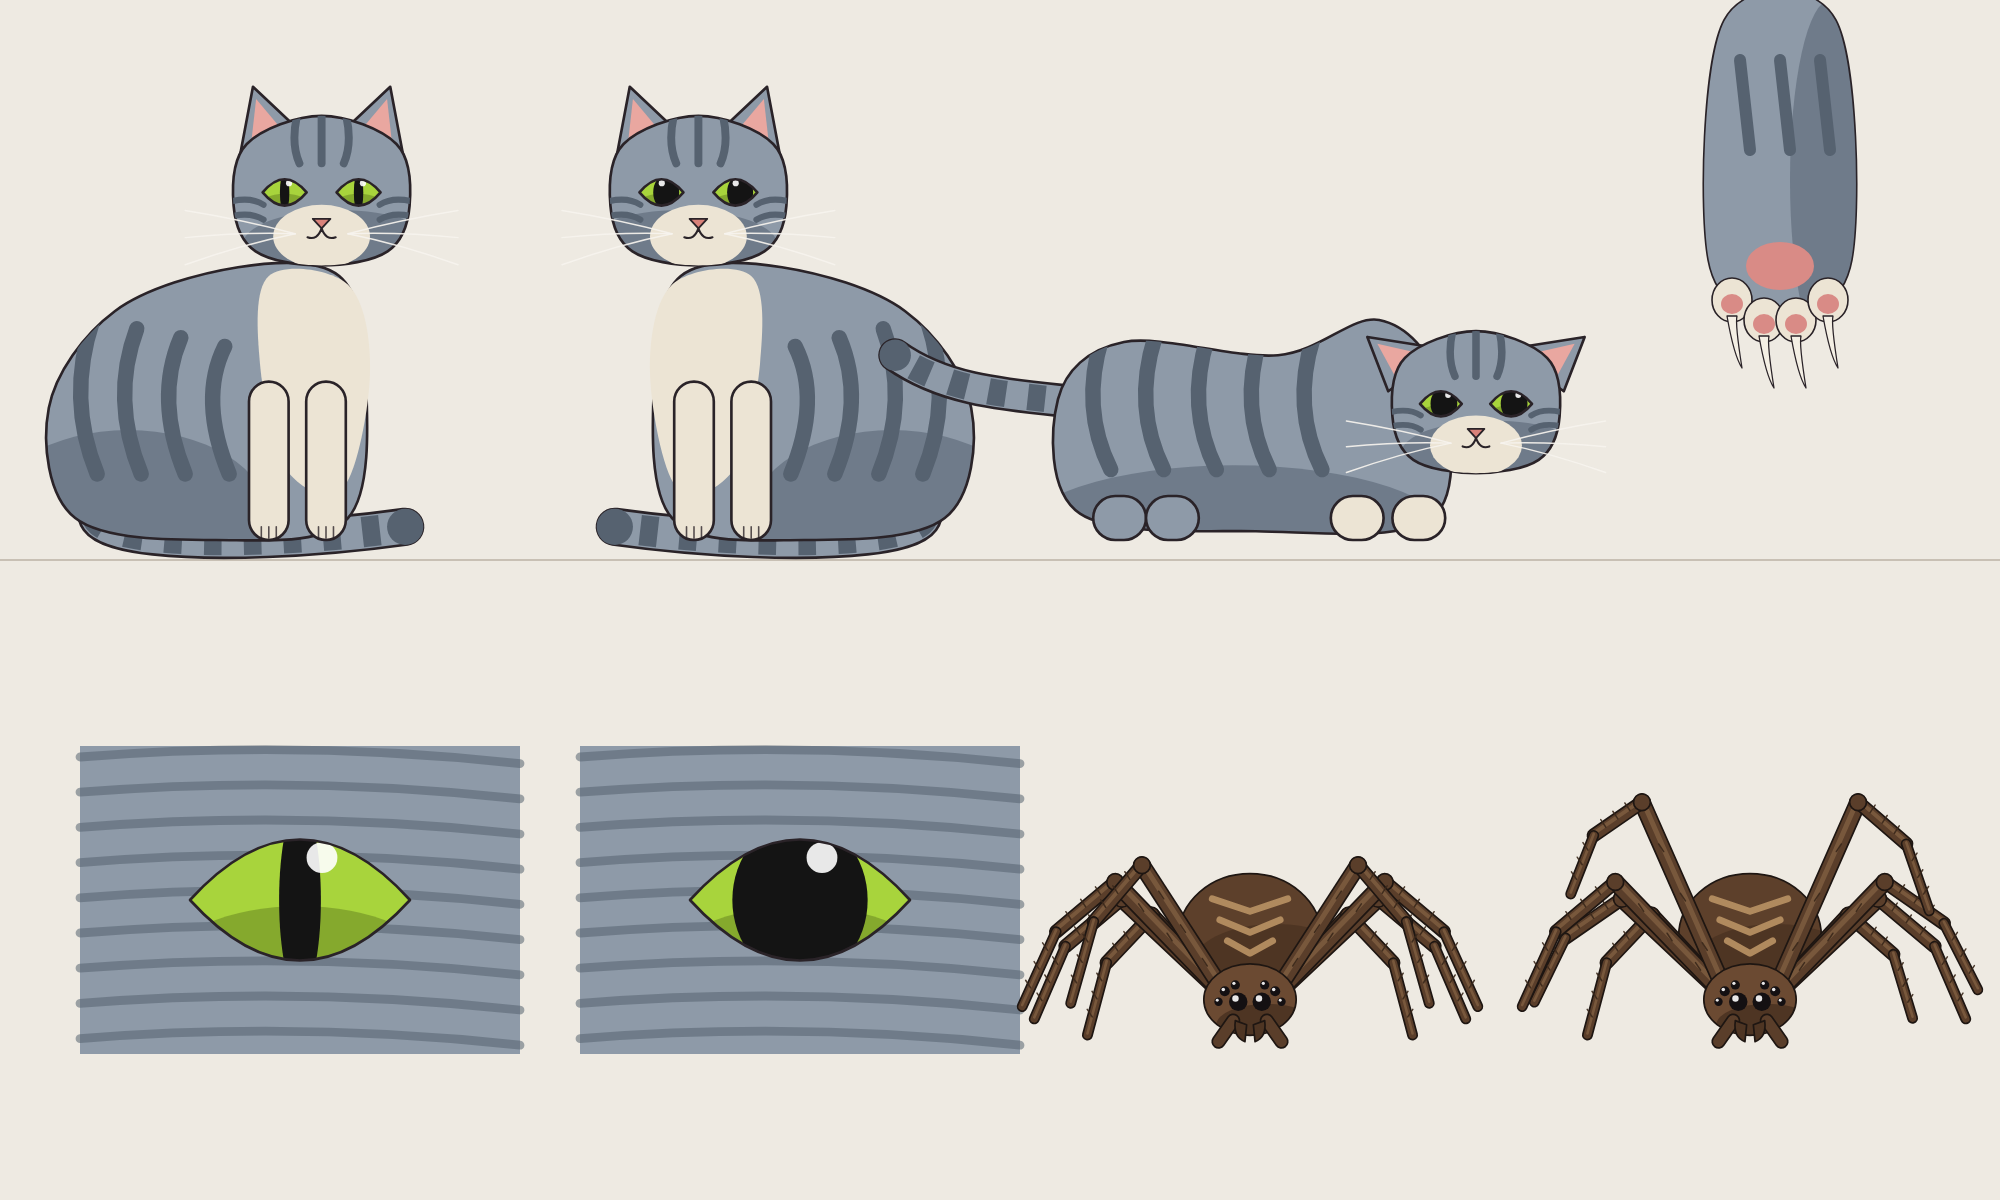
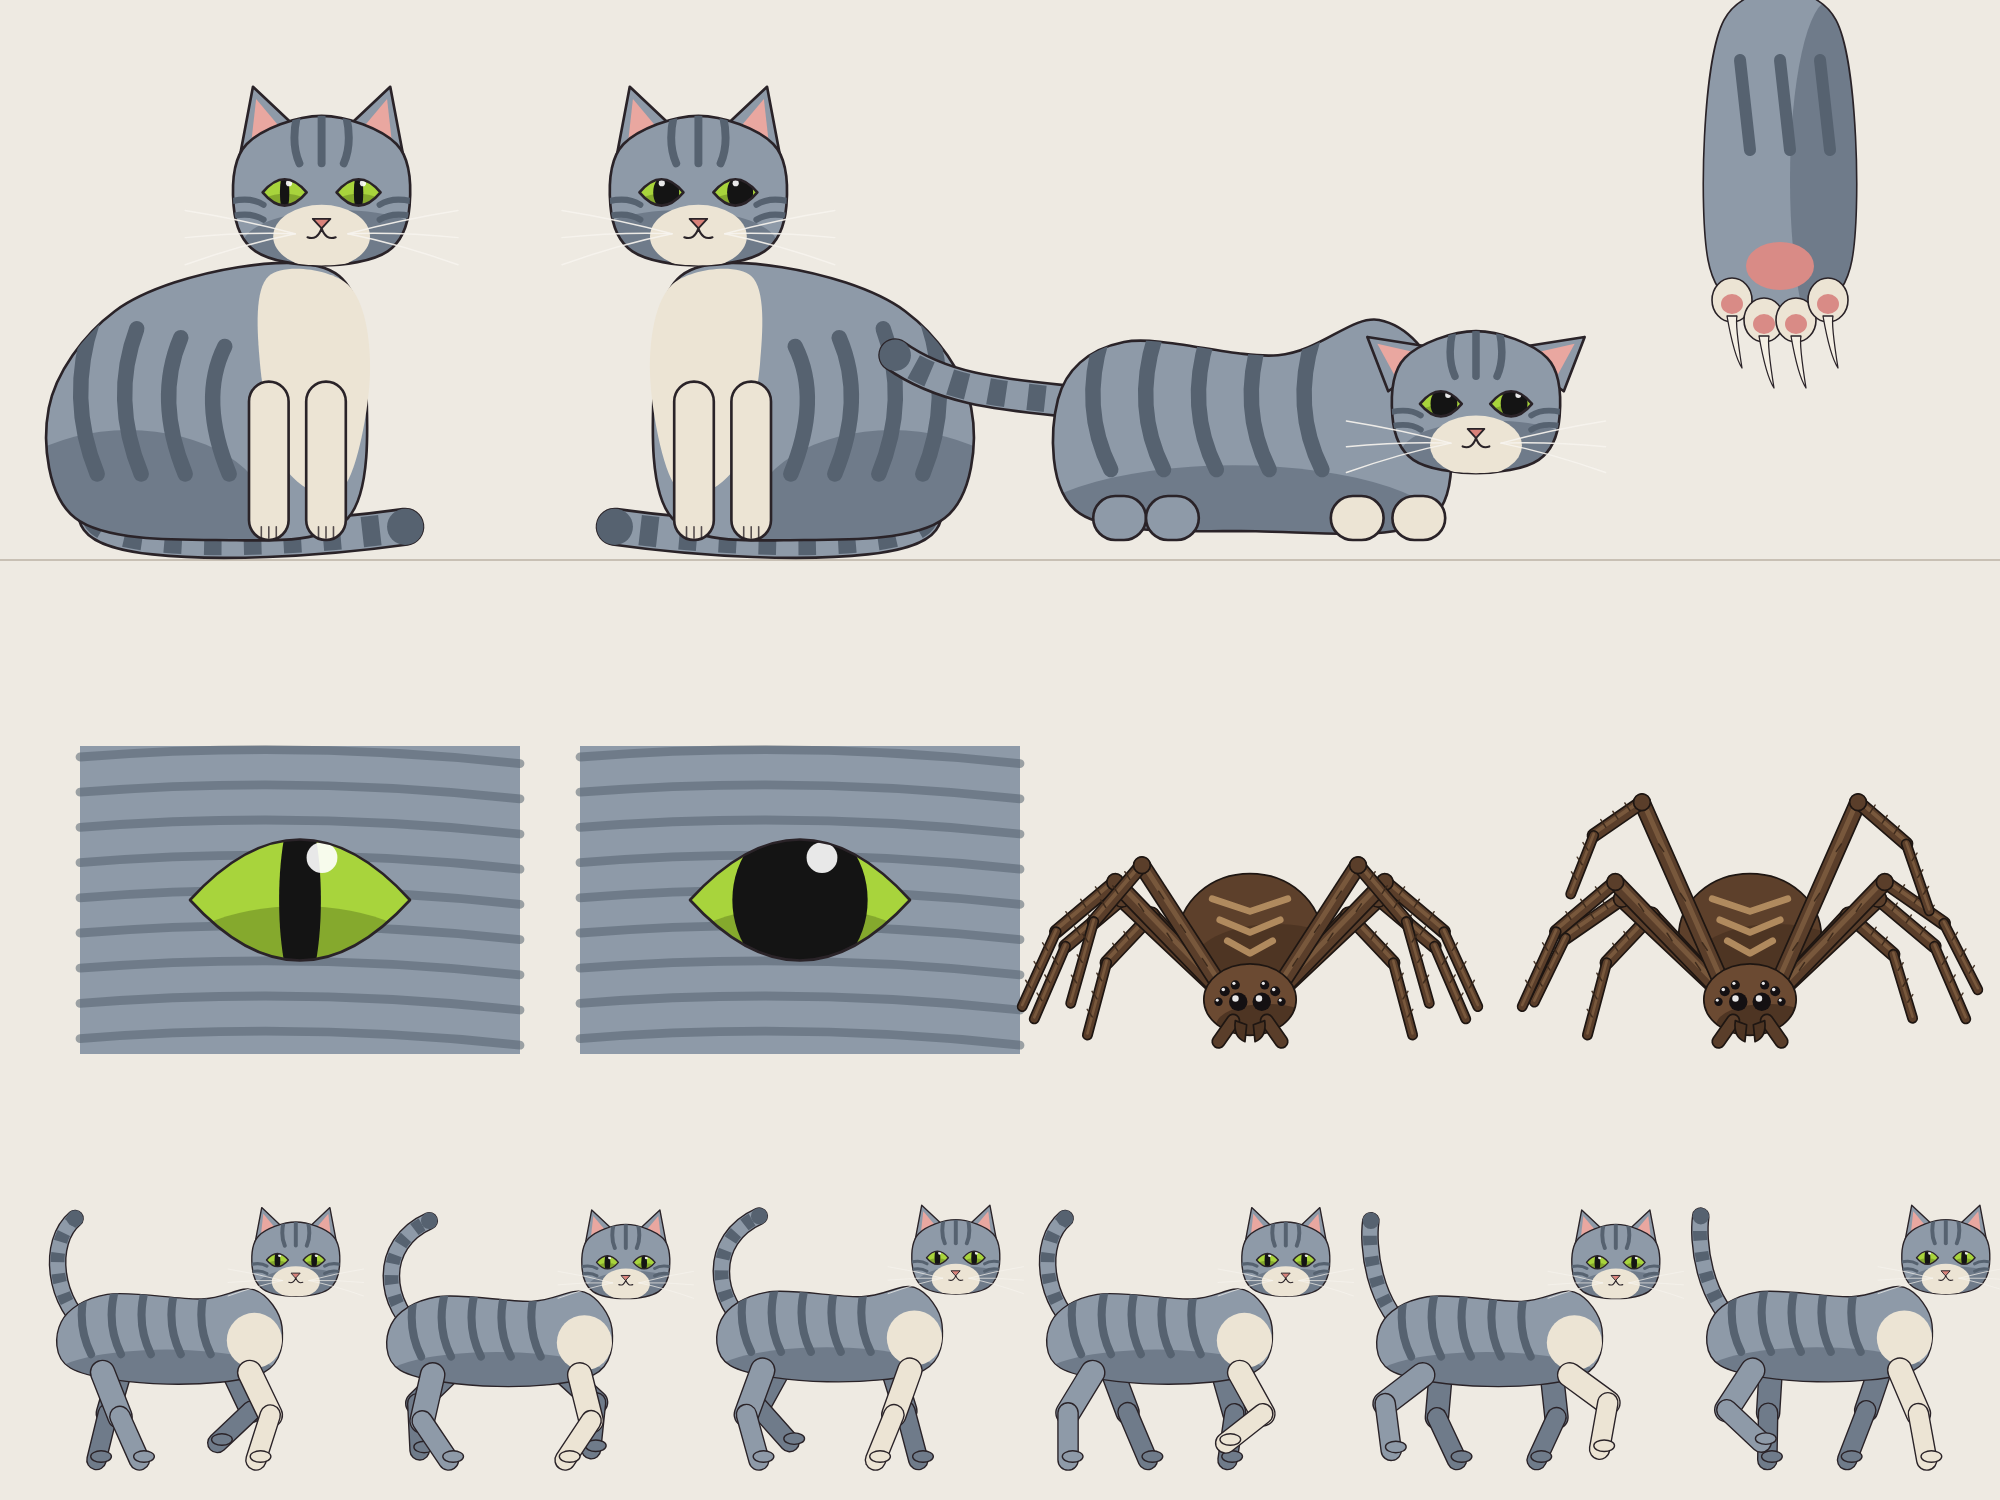
Gato: ciclo de caminhada com pés plantados (IK de 2 segmentos), cauda e cabeça animadas; folha atualizada
Claude-Session: https://claude.ai/code/session_011EYkUQs91cFecP9FoWchAQ

diff --git a/personagens/animais/gato.py b/personagens/animais/gato.py
@@ -69,14 +69,19 @@ def _olho_amendoa(cv, cx, cy, w, h, pupila, olhar, piscar, contorno):
     cv.drawPath(olho, _p(COR["contorno"], 255, contorno))
 
 
-def desenhar(cv, x_pe, y_pe, altura_px, pose="sentado", direcao=1, olhar=0.0, pupila=0.25, piscar=0.0):
+def desenhar(cv, x_pe, y_pe, altura_px, pose="sentado", direcao=1, olhar=0.0, pupila=0.25, piscar=0.0, fase=0.0, cauda=0.0,
+             inclinar=0.0):
+    """pose "andando": ciclo de passo de 4 patas (sequência lateral: traseira, dianteira do mesmo lado, depois o outro),
+    fase 0–1 por passada; cauda −1..1 balança a ponta; inclinar (graus) inclina a cabeça (curiosidade)."""
     A = altura_px; c = max(1.0, A * 0.006)                              # espessura do contorno
     cv.save(); cv.translate(x_pe, y_pe); cv.scale(direcao * A, A)
     k = 1.0 / A                                                          # contorno em px, escala unitária
     if pose == "agachado":
-        _agachado(cv, olhar, pupila, piscar, c * k)
+        _agachado(cv, olhar, pupila, piscar, c * k, cauda)
+    elif pose == "andando":
+        _andando(cv, olhar, pupila, piscar, c * k, fase, cauda, inclinar)
     else:
-        _sentado(cv, olhar, pupila, piscar, c * k)
+        _sentado(cv, olhar, pupila, piscar, c * k, cauda, inclinar)
     cv.restore()
 
 
@@ -88,7 +93,10 @@ def _cauda(cv, pts, larg, s):
     cv.drawCircle(pts[3][0], pts[3][1], larg * 0.55, _p(COR["listra"]))
 
 
-def _cabeca(cv, cx, cy, r, olhar, pupila, piscar, s, orelhas="em_pe"):
+def _cabeca(cv, cx, cy, r, olhar, pupila, piscar, s, orelhas="em_pe", inclinar=0.0):
+    if inclinar:
+        cv.save(); cv.rotate(inclinar, cx, cy + r * 0.6)
+        _cabeca(cv, cx, cy, r, olhar, pupila, piscar, s, orelhas, 0.0); cv.restore(); return
     # orelhas
     for lado in (-1, 1):
         if orelhas == "em_pe":
@@ -132,9 +140,9 @@ def _cabeca(cv, cx, cy, r, olhar, pupila, piscar, s, orelhas="em_pe"):
             cv.drawPath(b, _p(COR["bigode"], 235, s * 0.55))
 
 
-def _sentado(cv, olhar, pupila, piscar, s):
-    # cauda enrolada pela frente das patas
-    _cauda(cv, [(-0.30, -0.12), (-0.55, 0.0), (-0.1, 0.03), (0.33, -0.03)], 0.075, s)
+def _sentado(cv, olhar, pupila, piscar, s, cauda=0.0, inclinar=0.0):
+    # cauda enrolada pela frente das patas (a ponta balança com 'cauda')
+    _cauda(cv, [(-0.30, -0.12), (-0.55, 0.0), (-0.1, 0.03), (0.33, -0.03 - 0.07 * cauda)], 0.075, s)
     # quadril/coxa traseira e corpo
     corpo = _bolha([(-0.42, -0.05), (-0.48, -0.3), (-0.33, -0.52), (-0.05, -0.62), (0.18, -0.6), (0.24, -0.38), (0.2, -0.05), (-0.1, 0.0)])
     _preencher(cv, corpo, COR["pelo"], _elipse(-0.3, -0.05, 0.32, 0.2), s)
@@ -153,12 +161,12 @@ def _sentado(cv, olhar, pupila, piscar, s):
         for j in (-1, 0, 1):
             cv.drawLine(dx + j * 0.017, -0.004, dx + j * 0.017, -0.03, _p(COR["contorno"], 200, s * 0.6))
     # cabeça
-    _cabeca(cv, 0.14, -0.78, 0.2, olhar, pupila, piscar, s)
+    _cabeca(cv, 0.14, -0.78, 0.2, olhar, pupila, piscar, s, inclinar=inclinar)
 
 
-def _agachado(cv, olhar, pupila, piscar, s):
-    # cauda reta para trás, ponta levantada
-    _cauda(cv, [(-0.4, -0.3), (-0.6, -0.33), (-0.78, -0.32), (-0.92, -0.42)], 0.065, s)
+def _agachado(cv, olhar, pupila, piscar, s, cauda=0.0):
+    # cauda reta para trás, ponta levantada (a ponta tremula com 'cauda': caçando)
+    _cauda(cv, [(-0.4, -0.3), (-0.6, -0.33), (-0.78, -0.32), (-0.92, -0.42 - 0.06 * cauda)], 0.065, s)
     corpo = _bolha([(-0.5, -0.06), (-0.55, -0.32), (-0.4, -0.45), (-0.05, -0.42), (0.18, -0.5), (0.32, -0.35), (0.3, -0.05), (-0.1, -0.02)])
     _preencher(cv, corpo, COR["pelo"], _elipse(-0.15, 0.0, 0.5, 0.17), s)
     cv.save(); cv.clipPath(corpo, doAntiAlias=True)
@@ -171,6 +179,55 @@ def _agachado(cv, olhar, pupila, piscar, s):
         pt = skia.Path(); pt.addRRect(skia.RRect.MakeRectXY(skia.Rect.MakeLTRB(dx - 0.05, -0.1, dx + 0.07, 0.0), 0.05, 0.05))
         _preencher(cv, pt, COR["peito"] if dx > 0 else COR["pelo"], None, s)
     _cabeca(cv, 0.4, -0.3, 0.19, olhar, pupila, piscar, s, orelhas="de_lado")
+
+
+PASSADA = 0.16                      # meio passo (unidades da altura do gato)
+APOIO = 0.6                         # fração do ciclo com a pata no chão
+AVANCO_POR_CICLO = 2 * PASSADA / APOIO   # quanto o gato anda por ciclo, para os pés não deslizarem (× altura_px)
+
+
+def _perna(cv, quadril, pe, a, b, frente, larg, cor, s):
+    """Perna de 2 segmentos por IK: do quadril/ombro até o pé. A junta dobra para a frente (pata da frente) ou para trás."""
+    dx = pe[0] - quadril[0]; dy = pe[1] - quadril[1]; d = max(1e-6, min(a + b - 1e-4, math.hypot(dx, dy)))
+    ca = (a * a + d * d - b * b) / (2 * a * d); ang = math.atan2(dy, dx); off = math.acos(max(-1.0, min(1.0, ca)))
+    ang1 = ang - off if frente else ang + off                   # y para baixo: −off põe a junta à frente (+x) numa perna que desce
+    j = (quadril[0] + a * math.cos(ang1), quadril[1] + a * math.sin(ang1))
+    for p0, p1, w in ((quadril, j, larg), (j, pe, larg * 0.82)):
+        cv.drawLine(*p0, *p1, _p(COR["contorno"], 255, w + 2 * s)); cv.drawLine(*p0, *p1, _p(cor, 255, w))
+    pt = _elipse(pe[0] + 0.02, pe[1] - 0.015, 0.045, 0.025); cv.drawPath(pt, _p(cor)); cv.drawPath(pt, _p(COR["contorno"], 255, s))
+
+
+def _andando(cv, olhar, pupila, piscar, s, fase, cauda, inclinar):
+    """Gato andando de lado (cabeça à direita). Patas do lado de lá desenhadas antes, num tom mais escuro."""
+    bob = 0.012 * math.sin(4 * math.pi * fase)
+    cv.save(); cv.translate(0, bob)
+    offs = {"tras_longe": 0.5, "frente_longe": 0.75, "tras_perto": 0.0, "frente_perto": 0.25}
+    pos = {"tras_longe": (-0.30, -0.40), "frente_longe": (0.18, -0.40), "tras_perto": (-0.38, -0.38), "frente_perto": (0.26, -0.38)}
+
+    def pe(nome):
+        f = (fase + offs[nome]) % 1.0; q = pos[nome]
+        if f < APOIO:                                                   # apoio: o pé fica parado no chão e o corpo passa por cima
+            x = PASSADA - 2 * PASSADA * f / APOIO; y = 0.0
+        else:                                                           # balanço: levanta em arco e volta para a frente
+            u = (f - APOIO) / (1 - APOIO); e = 0.5 - 0.5 * math.cos(math.pi * u)
+            x = -PASSADA + 2 * PASSADA * e; y = -0.08 * math.sin(math.pi * u)
+        return (q[0] + x, y - bob)
+
+    for nome in ("tras_longe", "frente_longe"):
+        _perna(cv, pos[nome], pe(nome), 0.205, 0.205, "frente" in nome, 0.095, COR["pelo_sombra"], s)
+    _cauda(cv, [(-0.42, -0.55), (-0.6, -0.68), (-0.62, -0.95), (-0.5 + 0.12 * cauda, -1.05)], 0.065, s)
+    corpo = _bolha([(-0.52, -0.40), (-0.56, -0.60), (-0.36, -0.72), (0.05, -0.70), (0.28, -0.74), (0.40, -0.58), (0.32, -0.38), (-0.1, -0.33)])
+    _preencher(cv, corpo, COR["pelo"], _elipse(-0.1, -0.36, 0.5, 0.12), s)
+    cv.save(); cv.clipPath(corpo, doAntiAlias=True)
+    for i in range(5):
+        lp = skia.Path(); x = -0.45 + i * 0.13
+        lp.moveTo(x, -0.76); lp.quadTo(x - 0.05, -0.6, x + 0.02, -0.46); cv.drawPath(lp, _p(COR["listra"], 255, 0.035))
+    cv.drawPath(_elipse(0.28, -0.52, 0.12, 0.12), _p(COR["peito"]))
+    cv.restore()
+    for nome in ("tras_perto", "frente_perto"):
+        _perna(cv, pos[nome], pe(nome), 0.205, 0.205, "frente" in nome, 0.10, COR["pelo"] if "tras" in nome else COR["peito"], s)
+    cv.restore()
+    _cabeca(cv, 0.46, -0.86 + bob, 0.19, olhar, pupila, piscar, s, inclinar=inclinar)
 
 
 def pata(cv, cx, cy, tamanho_px, garras=1.0, angulo=0.0):

diff --git a/personagens/animais/folha_modelo.py b/personagens/animais/folha_modelo.py
@@ -2,19 +2,22 @@
 """Folha de modelo do gato e da aranha do EP01 (personagens originais, 2D por código)."""
 import sys
 from pathlib import Path
+import math
 import numpy as np, skia, cv2
 AQUI = Path(__file__).resolve().parent; sys.path.insert(0, str(AQUI))
 import gato as G, aranha as A
 
 
 def folha(caminho):
-    W, H = 2000, 1200
+    W, H = 2000, 1500
     s = skia.Surface(W, H); cv = s.getCanvas(); cv.clear(skia.ColorSetARGB(255, 238, 234, 226))
     cv.drawLine(0, 560, W, 560, skia.Paint(Color=skia.ColorSetARGB(255, 200, 192, 180), StrokeWidth=2))
     G.desenhar(cv, 260, 540, 440, pose="sentado", pupila=0.15)
     G.desenhar(cv, 760, 540, 440, pose="sentado", direcao=-1, pupila=0.9, olhar=-0.6)
     G.desenhar(cv, 1300, 540, 440, pose="agachado", pupila=1.0, olhar=0.4)
     G.pata(cv, 1780, 300, 200, garras=1.0)
+    for i, f in enumerate((0.0, 0.17, 0.33, 0.5, 0.67, 0.83)):
+        G.desenhar(cv, 190 + i * 330, 1460, 230, pose="andando", fase=f, cauda=math.sin(6.28 * f))
     G.olho(cv, 300, 900, 220, pupila=0.1); G.olho(cv, 800, 900, 220, pupila=0.95)
     A.desenhar(cv, 1250, 1050, 420, fase=0.0); A.desenhar(cv, 1750, 1050, 420, fase=0.25, levantar_frente=1.0)
     img = np.asarray(s.makeImageSnapshot().toarray(colorType=skia.kRGBA_8888_ColorType))
